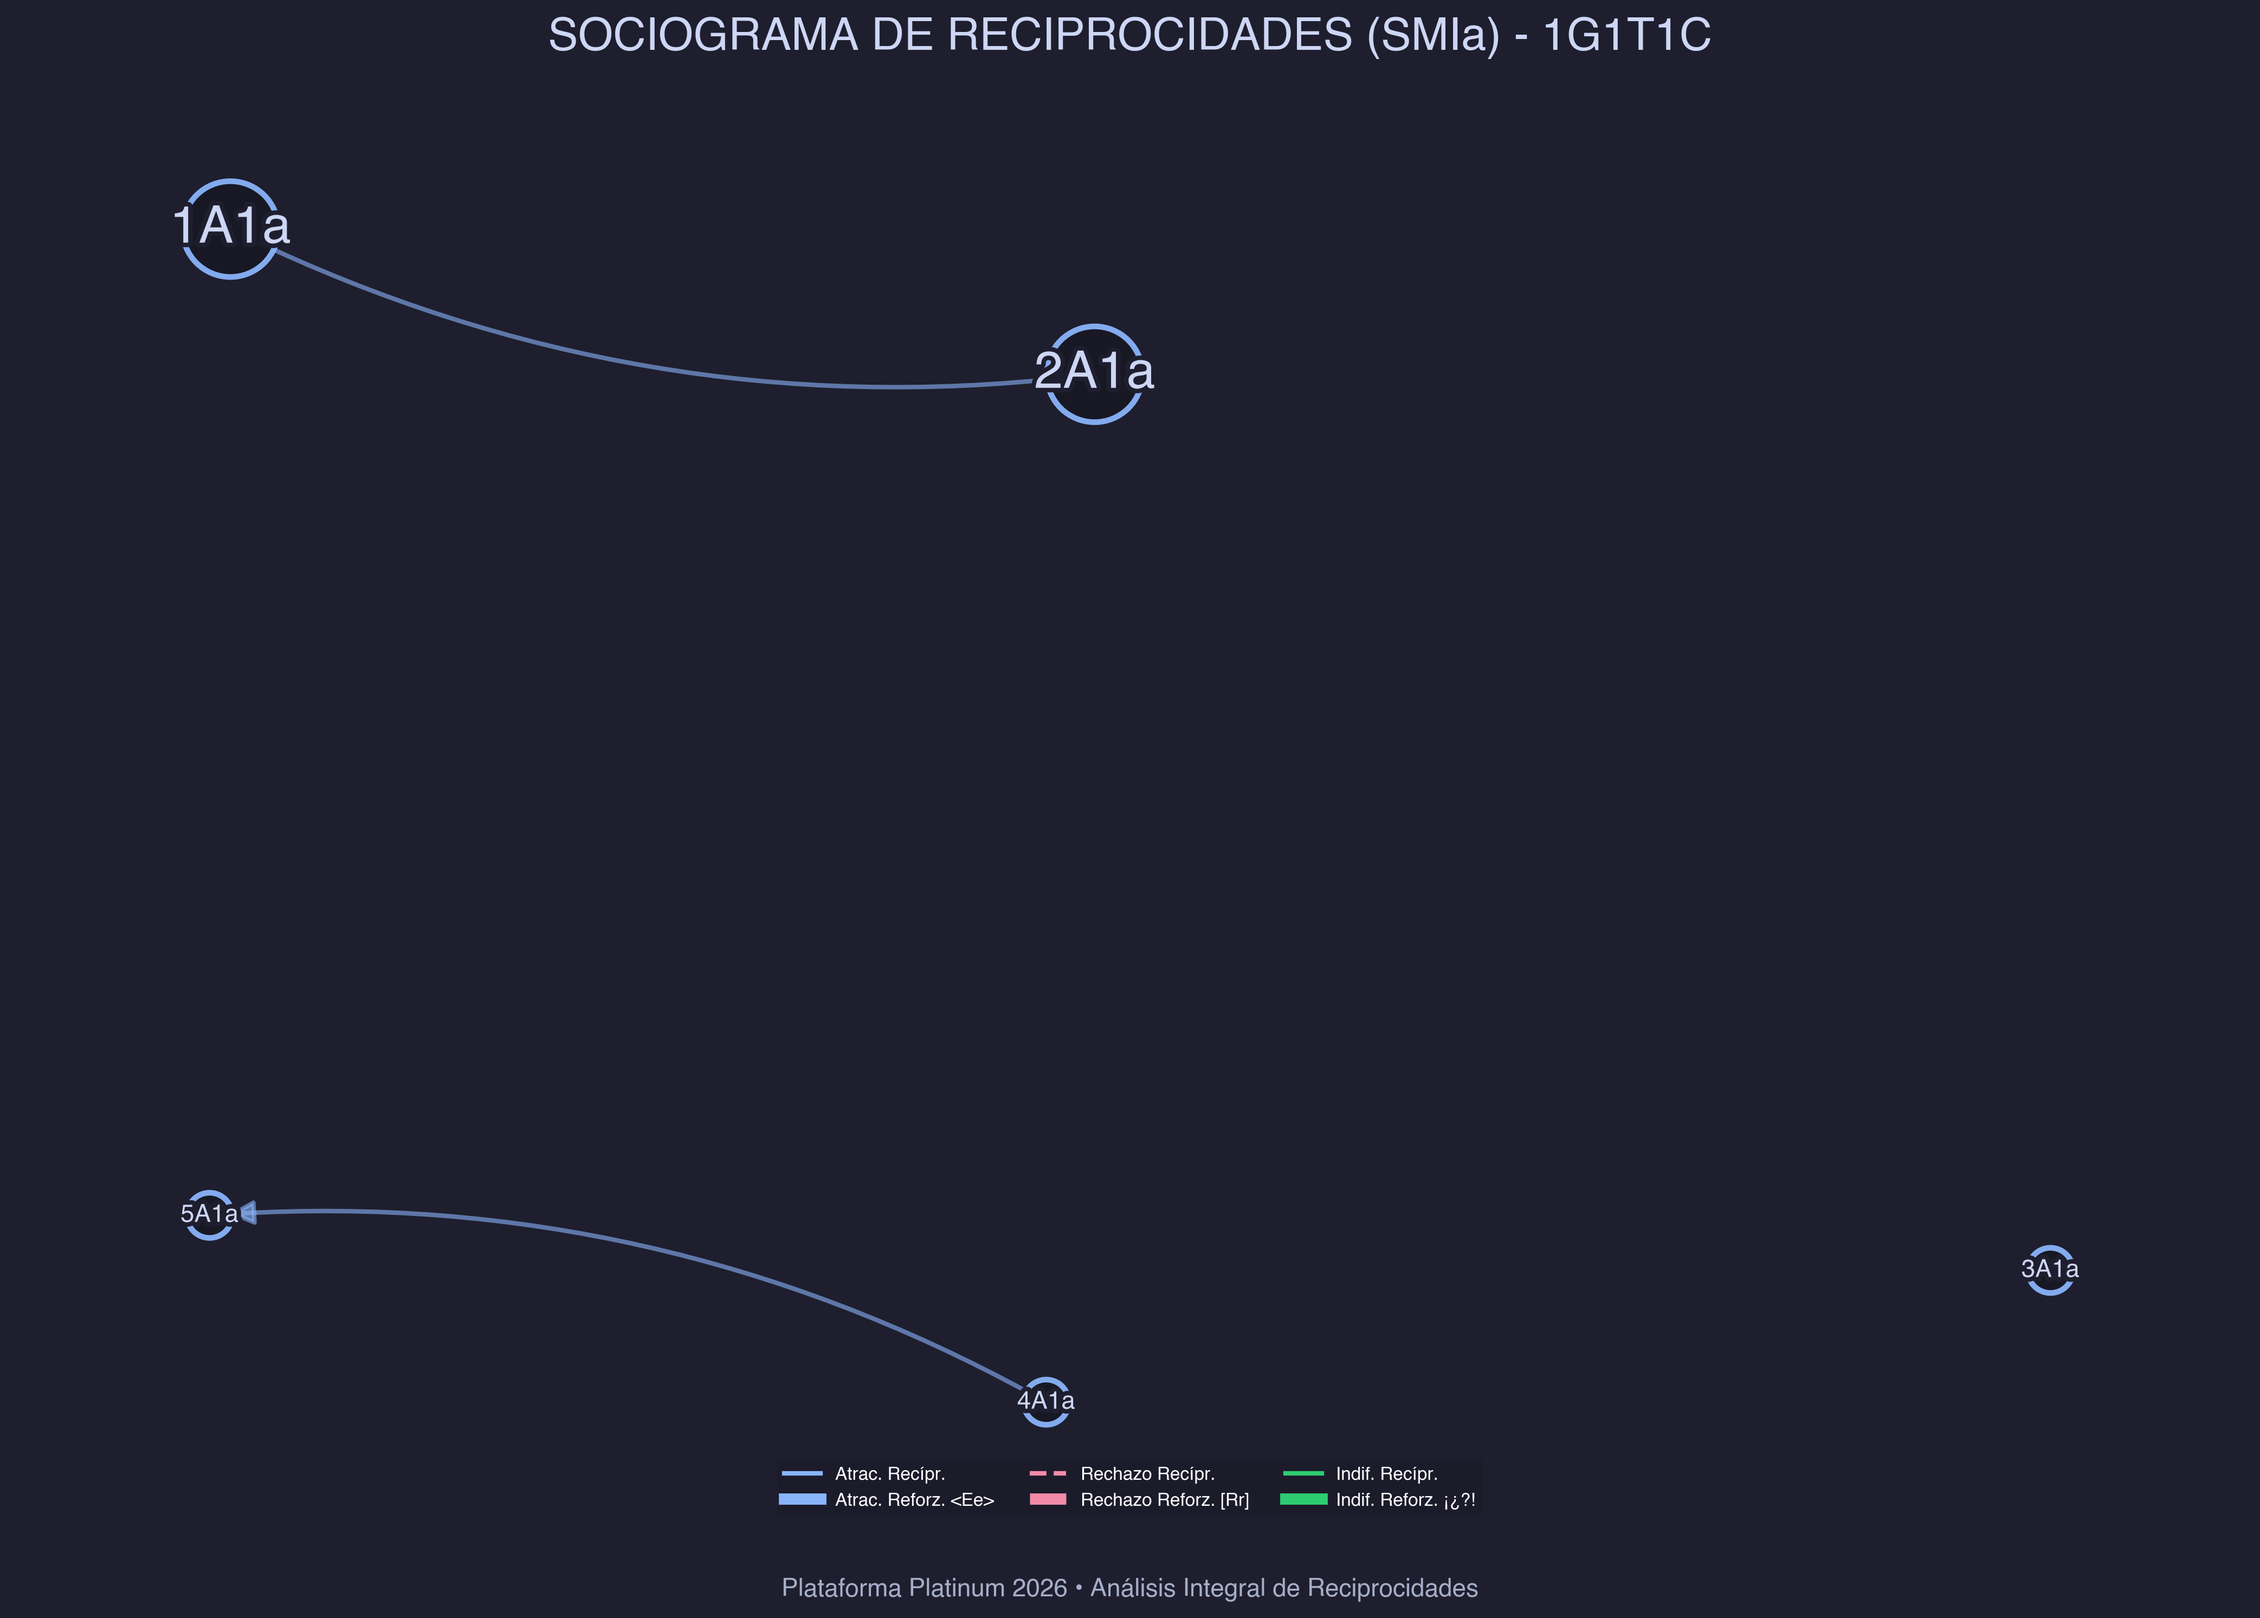
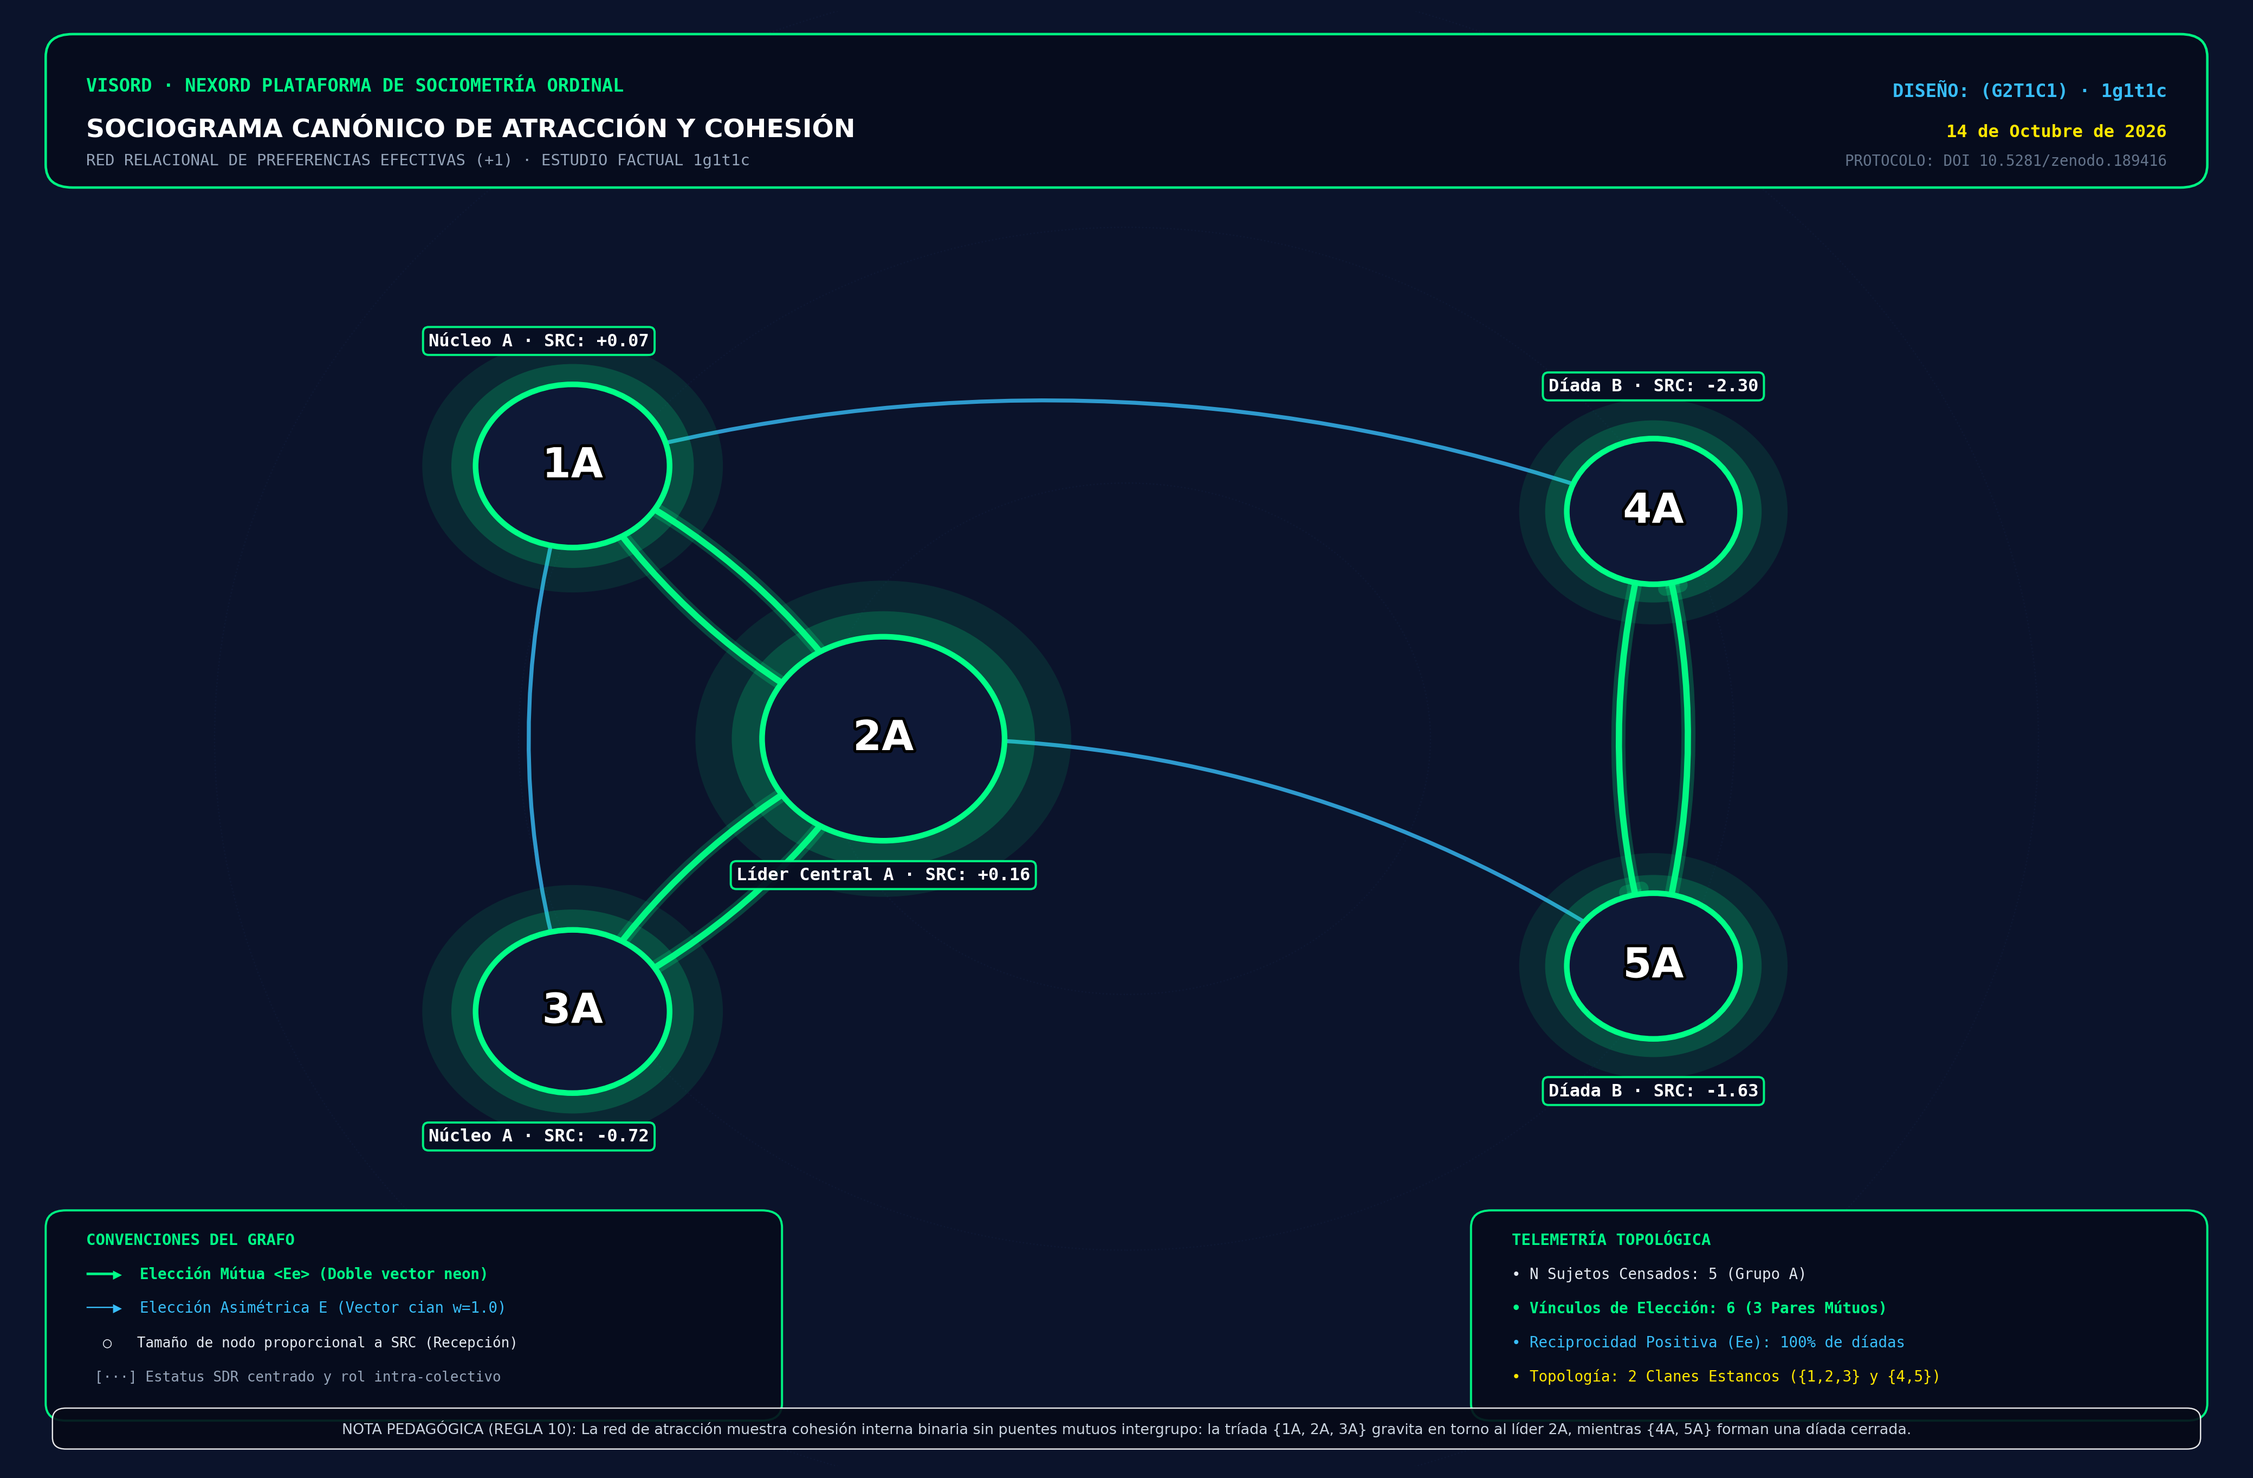
feat(5e): incorporar sociograma dual ultra-vistoso (Atracción y Rechazo) con conmutador de polaridad

diff --git a/nivel5_matematico.html b/nivel5_matematico.html
@@ -5316,7 +5316,7 @@
                 8. 🧊 Hipercubo Tensor 3D
               </button>
               <button class="g-item-btn" id="g-item-8" onclick="selectGalleryItem(8, this)" style="background:transparent; border:1px solid rgba(255,255,255,0.12); color:#94A3B8; padding:5px 8px; border-radius:5px; text-align:left; cursor:pointer; font-size:0.78rem; font-family:monospace; font-weight:700;">
-                9. 🕊 Red Socio-Afectiva
+                9. 🕊 Red Dual (Atracción &amp; Rechazo)
               </button>
             </div>
           </div>
@@ -5338,8 +5338,8 @@
         <div style="flex: 1 1 auto; min-width: 0; background: #060A18; border: 1.5px solid rgba(56, 189, 248, 0.4); border-radius: 10px; padding: 12px 16px; display: flex; flex-direction: column; justify-content: space-between; box-shadow: 0 8px 30px rgba(0,0,0,0.65);">
           
           <!-- Encabezado del Gráfico Activo -->
-          <div style="display: flex; justify-content: space-between; align-items: center; border-bottom: 1px solid rgba(56,189,248,0.25); padding-bottom: 4px;">
-            <div>
+          <div style="display: flex; justify-content: space-between; align-items: center; border-bottom: 1px solid rgba(56,189,248,0.25); padding-bottom: 4px; gap: 8px;">
+            <div style="flex: 1 1 auto; min-width: 0;">
               <h3 id="g-view-title" style="font-size: 1.15rem; font-weight: 900; color: #FFFFFF; margin: 0;">
                 1. Diagrama de Dispersión Relacional (DA vs REC)
               </h3>
@@ -5347,7 +5347,21 @@
                 Estudio Factual 1g1t1c · N=5 (1A..5A) · Bisectriz de reciprocidad Y=X
               </div>
             </div>
-            <button onclick="openCurrentGalleryLightbox()" style="background: rgba(0,255,135,0.15); border: 1px solid #00FF87; color: #00FF87; padding: 4px 12px; border-radius: 6px; font-size: 0.80rem; font-family: monospace; font-weight: 800; cursor: pointer;">
+
+            <!-- Sub-conmutador Dual de Sociogramas (visible solo en Item 9) -->
+            <div id="soc-dual-switch-container" style="display: none; align-items: center; gap: 6px; flex-shrink: 0;">
+              <span style="font-family: monospace; font-size: 0.74rem; color: #94A3B8; font-weight: 700;">POLARIDAD:</span>
+              <div style="display: inline-flex; background: rgba(5,8,20,0.85); border: 1px solid rgba(56,189,248,0.3); border-radius: 20px; padding: 2px; gap: 3px;">
+                <button id="soc-btn-atrac" onclick="switchSociogramPolarity('atraccion')" style="background: rgba(0,255,135,0.2); border: 1px solid #00FF87; color: #00FF87; padding: 3px 11px; border-radius: 16px; font-size: 0.76rem; font-family: monospace; font-weight: 800; cursor: pointer; transition: all 0.2s;">
+                  💚 Atracción (+1)
+                </button>
+                <button id="soc-btn-rech" onclick="switchSociogramPolarity('rechazo')" style="background: transparent; border: 1px solid transparent; color: #94A3B8; padding: 3px 11px; border-radius: 16px; font-size: 0.76rem; font-family: monospace; font-weight: 700; cursor: pointer; transition: all 0.2s;">
+                  💔 Rechazo (-1)
+                </button>
+              </div>
+            </div>
+
+            <button onclick="openCurrentGalleryLightbox()" style="background: rgba(0,255,135,0.15); border: 1px solid #00FF87; color: #00FF87; padding: 4px 12px; border-radius: 6px; font-size: 0.80rem; font-family: monospace; font-weight: 800; cursor: pointer; flex-shrink: 0;">
               🔍 Zoom HD
             </button>
           </div>
@@ -7900,16 +7914,84 @@
         interp: "Superficie de evolución temporal (T1..T3) y contraste criterial (C1..C2) entre colectivos independientes."
       },
       {
-        title: "9. Red Socio-Afectiva Humanizada (Grafo de Fuerzas)",
-        sub: "Nodos con Rostro · Flechas Orientadas con Espesor W(k) · Halos Gravitatorios",
-        scale: "Micro (Individual)",
-        metric: "Fuerzas Fructerman",
-        img: "assets/g1t1c1/red_humanizada_1g1t1c.png",
-        interp: "Visualización intuitiva con anonimización canónica y vectores relacionales coloreados según la valencia del vínculo."
+        title: "9. Sociograma Canónico de Atracción y Cohesión (Moreno +)",
+        sub: "Estudio Factual 1g1t1c · Red Polarizada de Elecciones (+1) · Tríada {1A,2A,3A} y Díada {4A,5A}",
+        scale: "Micro (Diádico)",
+        metric: "Grafo Dual Moreno",
+        img: "assets/g1t1c1/soc_moreno_atraccion_1g1t1c.png",
+        img_atrac: "assets/g1t1c1/soc_moreno_atraccion_1g1t1c.png",
+        img_rech: "assets/g1t1c1/soc_moreno_relegacion_1g1t1c.png",
+        title_atrac: "9. Sociograma Canónico de Atracción y Cohesión (Moreno +)",
+        sub_atrac: "Estudio Factual 1g1t1c · Red Polarizada de Elecciones (+1) · Tríada {1A,2A,3A} y Díada {4A,5A}",
+        interp_atrac: "Visualización de alianzas y cohesión diádica: revela la división en dos islas estancas (la tríada mayoritaria articulada en torno al líder 2A y la díada segregada 4A-5A, sin puentes de atracción intergrupo).",
+        title_rech: "9. Sociograma Canónico de Rechazo y Conflicto (Moreno -)",
+        sub_rech: "Estudio Factual 1g1t1c · Red Polarizada de Tensiones (-1) · Oposición Sistemática Inter-Facción",
+        interp_rech: "Visualización de fricción térmica y ostracismo: mapea el bombardeo de rechazo mutuo [Rr] entre el bloque A {1A, 2A, 3A} y el bloque B {4A, 5A}, concentrando en 4A y 5A la máxima estigmatización grupal.",
+        interp: "Visualización de alianzas y cohesión diádica: revela la división en dos islas estancas (la tríada mayoritaria articulada en torno al líder 2A y la díada segregada 4A-5A, sin puentes de atracción intergrupo)."
       }
     ];
 
     let currentGalleryIdx = 0;
+    let sociogramPolarity = 'atraccion'; // 'atraccion' | 'rechazo'
+
+    function switchSociogramPolarity(polarity, updateView = true) {
+      sociogramPolarity = polarity;
+      const btnAtrac = document.getElementById('soc-btn-atrac');
+      const btnRech = document.getElementById('soc-btn-rech');
+      const item = galleryItems[8];
+
+      if (polarity === 'atraccion') {
+        if (btnAtrac) {
+          btnAtrac.style.background = 'rgba(0,255,135,0.2)';
+          btnAtrac.style.borderColor = '#00FF87';
+          btnAtrac.style.color = '#00FF87';
+          btnAtrac.style.fontWeight = '800';
+        }
+        if (btnRech) {
+          btnRech.style.background = 'transparent';
+          btnRech.style.borderColor = 'transparent';
+          btnRech.style.color = '#94A3B8';
+          btnRech.style.fontWeight = '700';
+        }
+        item.img = item.img_atrac;
+        item.title = item.title_atrac;
+        item.sub = item.sub_atrac;
+        item.interp = item.interp_atrac;
+      } else {
+        if (btnRech) {
+          btnRech.style.background = 'rgba(255,0,127,0.2)';
+          btnRech.style.borderColor = '#FF007F';
+          btnRech.style.color = '#FF007F';
+          btnRech.style.fontWeight = '800';
+        }
+        if (btnAtrac) {
+          btnAtrac.style.background = 'transparent';
+          btnAtrac.style.borderColor = 'transparent';
+          btnAtrac.style.color = '#94A3B8';
+          btnAtrac.style.fontWeight = '700';
+        }
+        item.img = item.img_rech;
+        item.title = item.title_rech;
+        item.sub = item.sub_rech;
+        item.interp = item.interp_rech;
+      }
+
+      if (updateView && currentGalleryIdx === 8) {
+        const titleEl = document.getElementById('g-view-title');
+        if (titleEl) titleEl.textContent = item.title;
+        const subEl = document.getElementById('g-view-sub');
+        if (subEl) subEl.textContent = item.sub;
+        const interpEl = document.getElementById('g-view-interp');
+        if (interpEl) interpEl.textContent = item.interp;
+        const imgEl = document.getElementById('g-view-img');
+        if (imgEl) {
+          imgEl.style.opacity = '0.7';
+          imgEl.src = item.img;
+          imgEl.alt = item.title;
+          imgEl.onload = () => { imgEl.style.opacity = '1'; };
+        }
+      }
+    }
 
     function selectGalleryItem(idx, btn) {
       if (!btn) btn = document.getElementById(`g-item-${idx}`);
@@ -7929,6 +8011,16 @@
       }
 
       currentGalleryIdx = idx;
+
+      // Mostrar/ocultar conmutador dual de sociogramas según el item
+      const dualSwitchContainer = document.getElementById('soc-dual-switch-container');
+      if (dualSwitchContainer) {
+        dualSwitchContainer.style.display = (idx === 8) ? 'inline-flex' : 'none';
+      }
+      if (idx === 8) {
+        switchSociogramPolarity(sociogramPolarity, false);
+      }
+
       const item = galleryItems[idx];
       if (!item) return;
 
@@ -7965,6 +8057,10 @@
       galleryItems.forEach(it => {
         const pImg = new Image();
         pImg.src = it.img;
+        if (it.img_rech) {
+          const pImg2 = new Image();
+          pImg2.src = it.img_rech;
+        }
       });
     });
 
